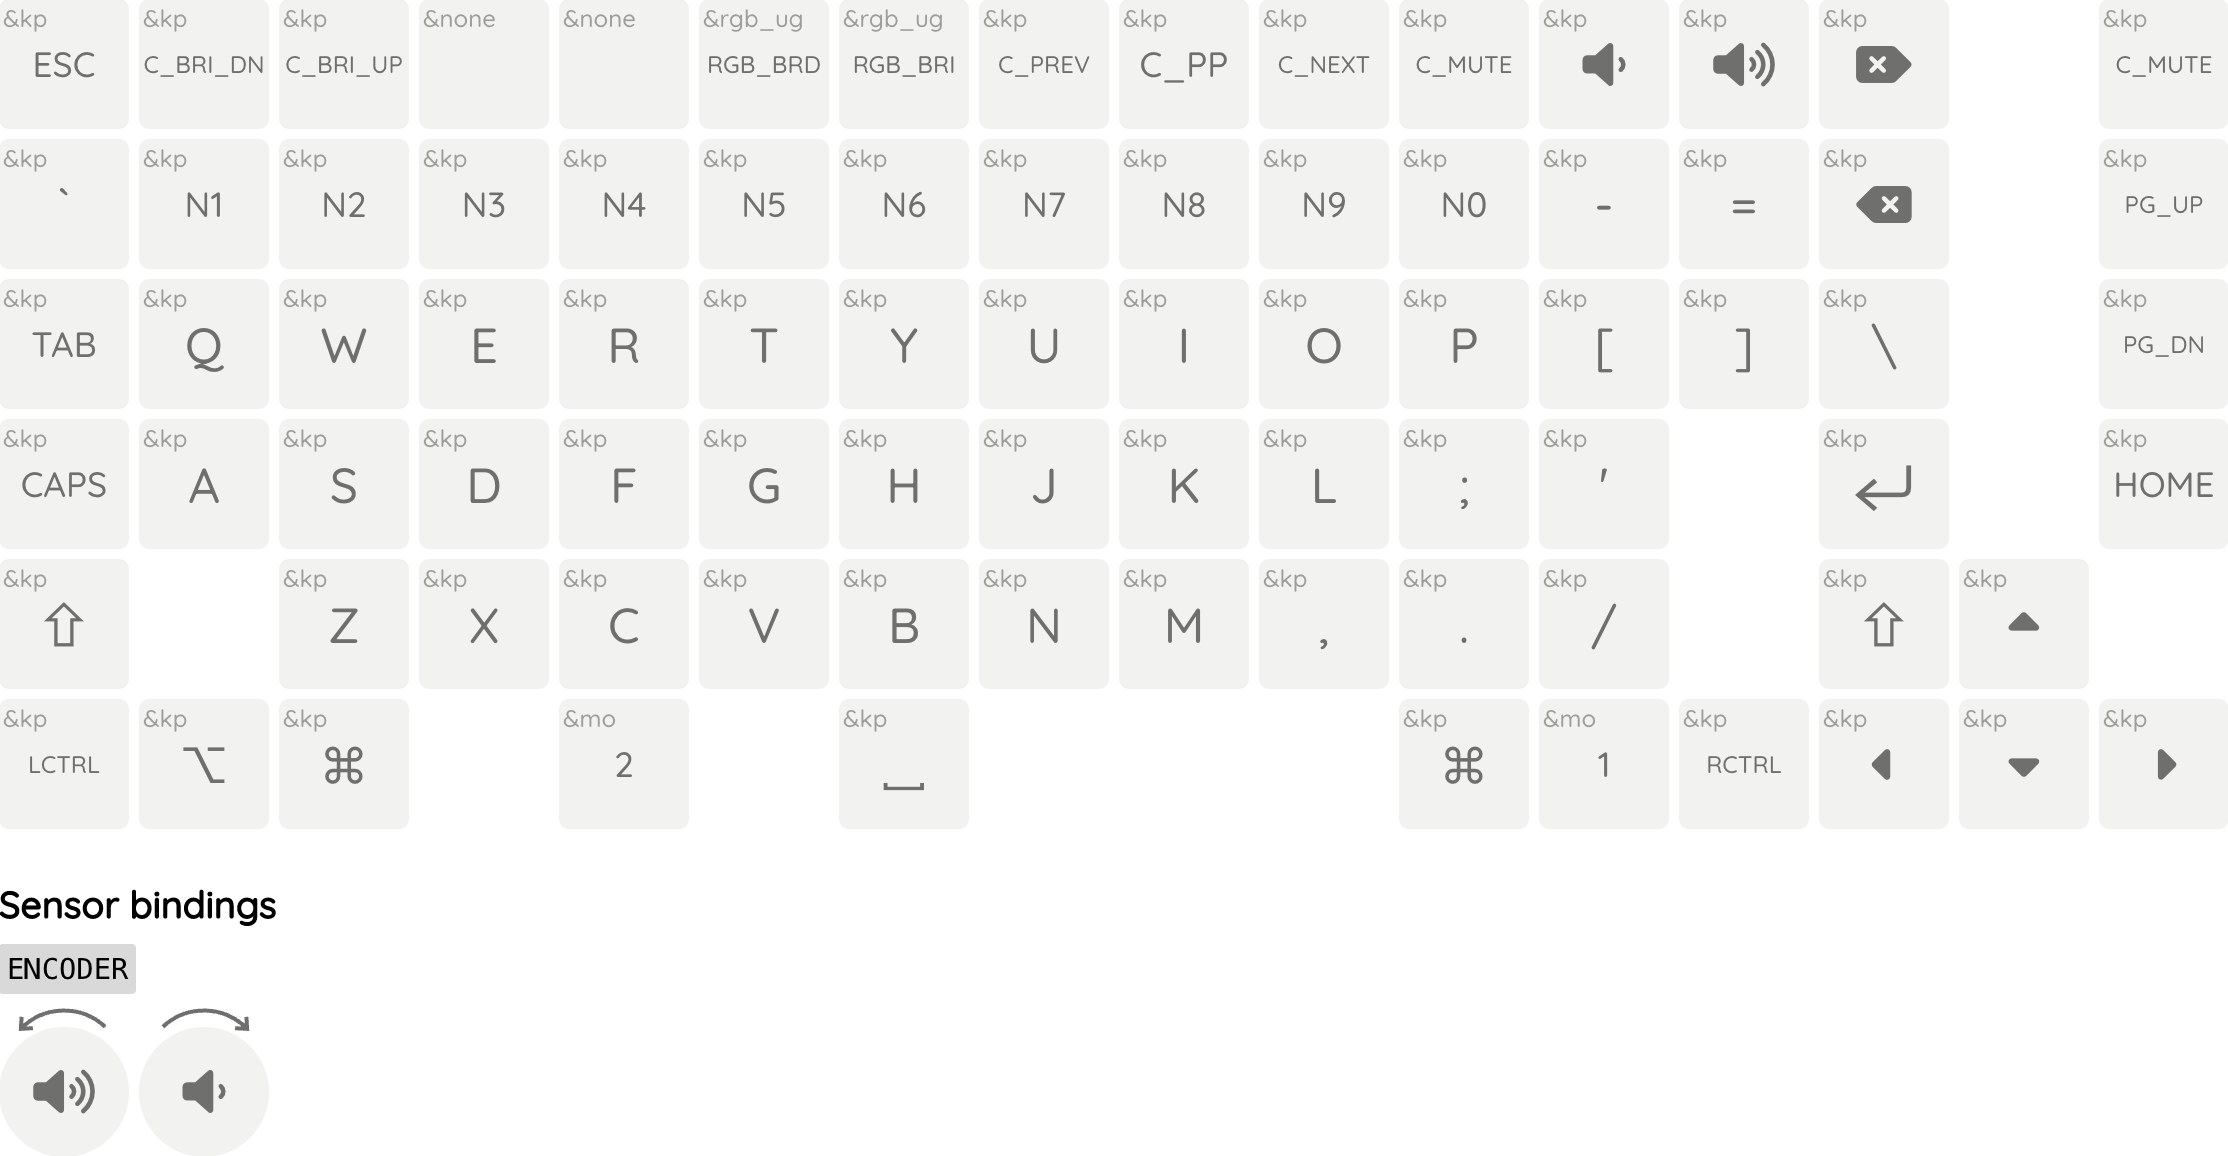
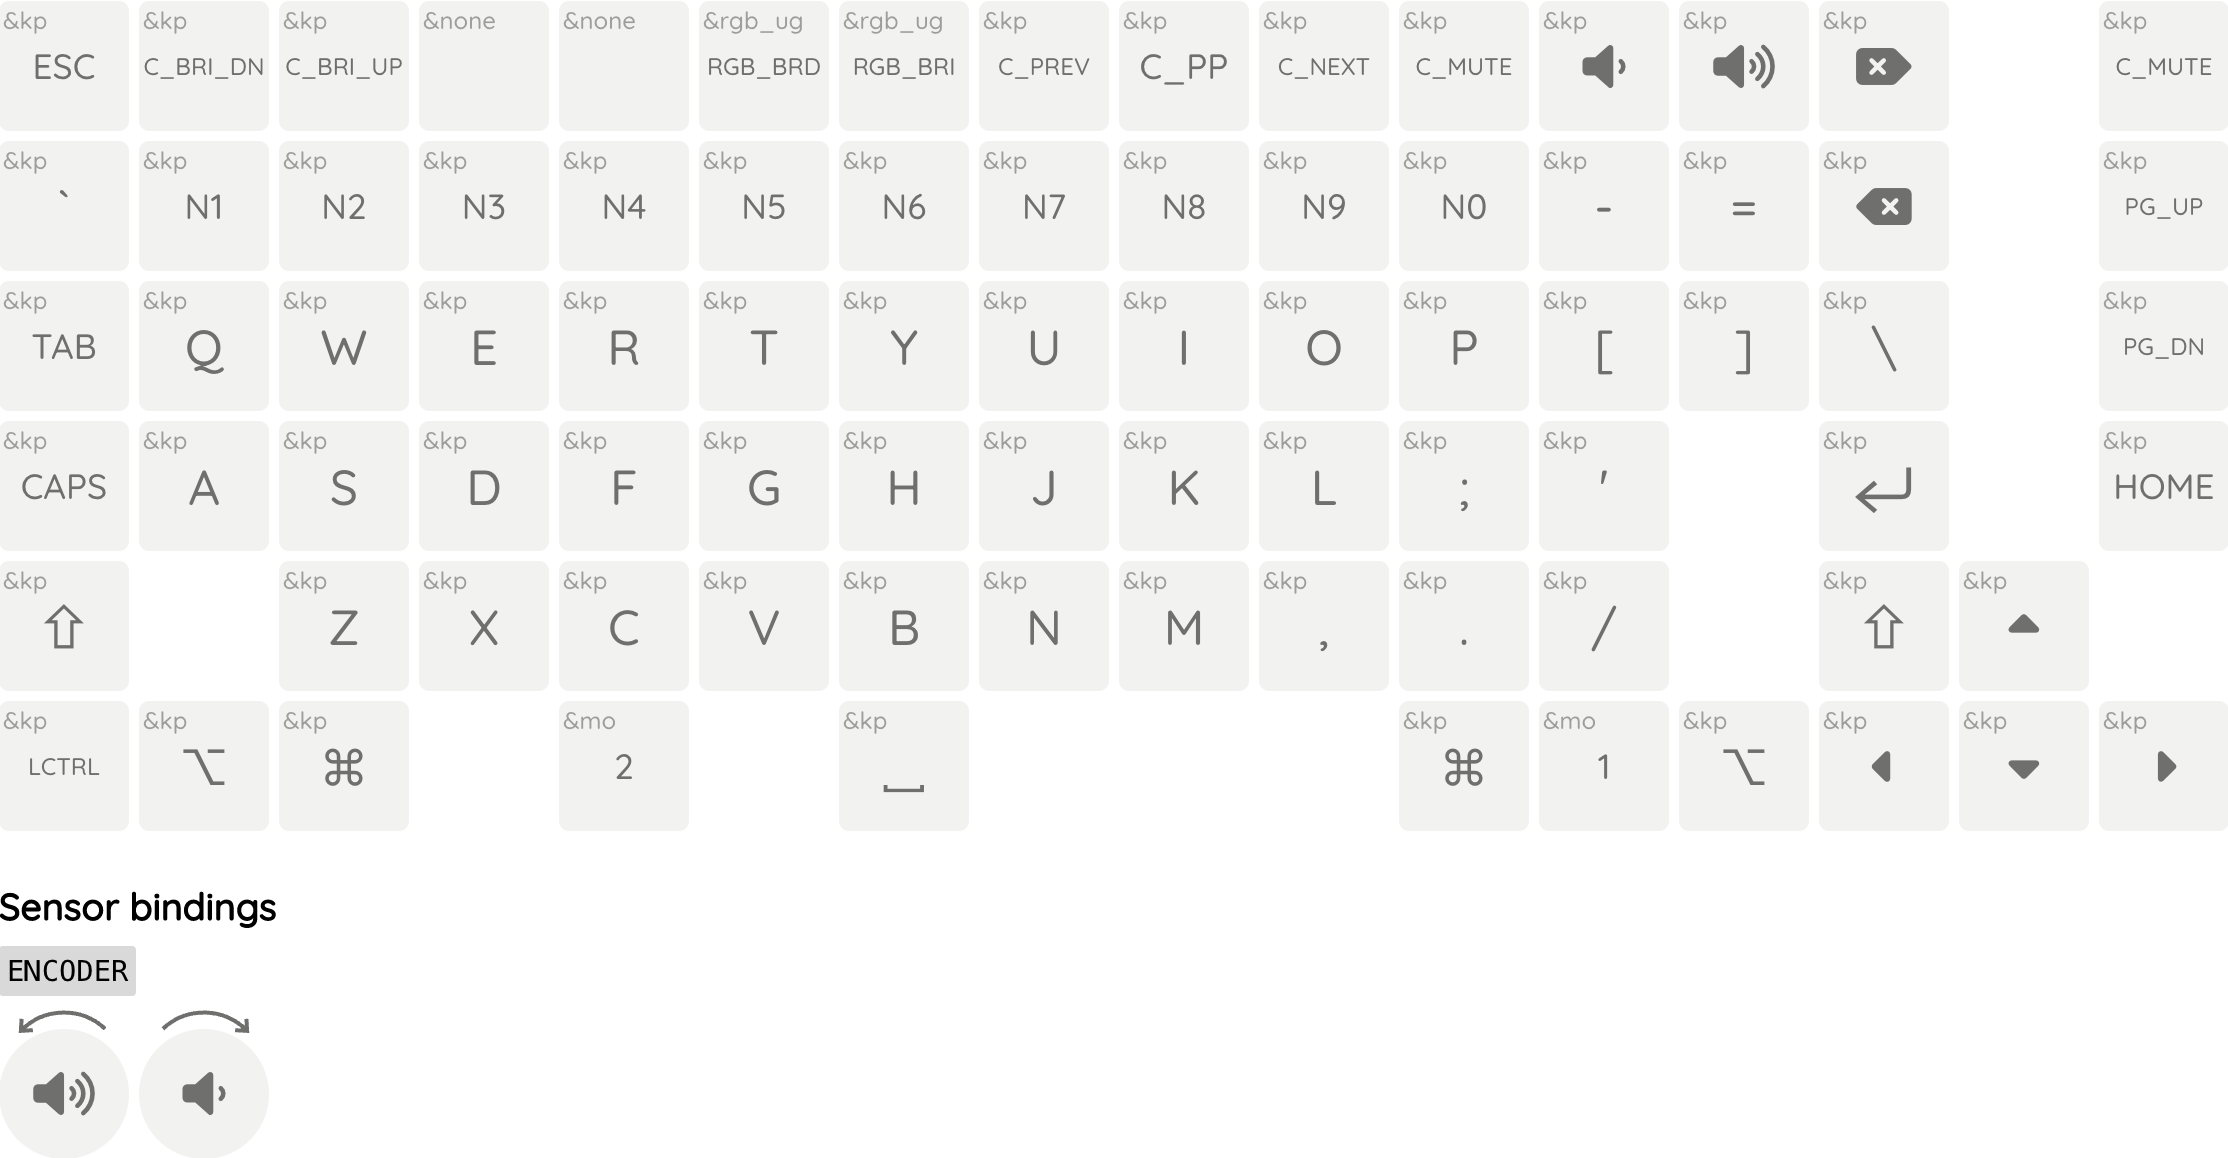
Change right "control" to "option" to match Mac layout

diff --git a/README.md b/README.md
@@ -19,7 +19,7 @@ You can fork this repository to your own GitHub account and do any modification.
 
 ### Keymap
 
-This firmware tries to match the default keymap of the stock firmware as closely as possible, but you can customize it using the [ZMK Keymap Editor](https://nickcoutsos.github.io/keymap-editor/) or by manually editing the [`keychron_q1.keymap`](config/keychron_q1.keymap).
+This firmware is designed to closely mimic the default keymap of the [factory firmware](https://www.keychron.com/blogs/archived/how-to-reset-your-keychron-q1-to-factory-settings), with the exception of the right `Control` key in the Mac layout, which has been changed to the `Option` key to match the layout on MacBooks. You can customize it using the [ZMK Keymap Editor](https://nickcoutsos.github.io/keymap-editor/) or by manually editing the [`keychron_q1.keymap`](config/keychron_q1.keymap) file.
 
 #### Mac, default
 
